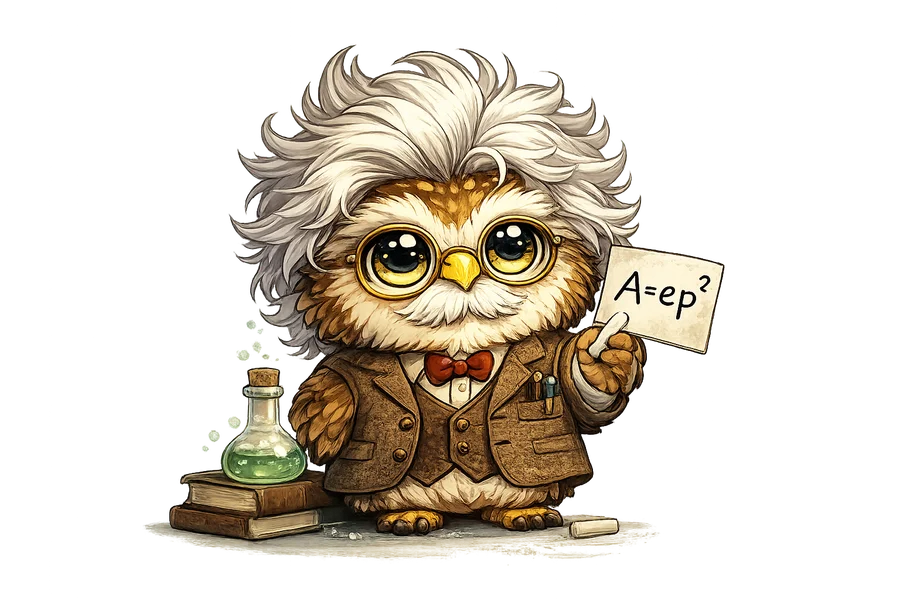
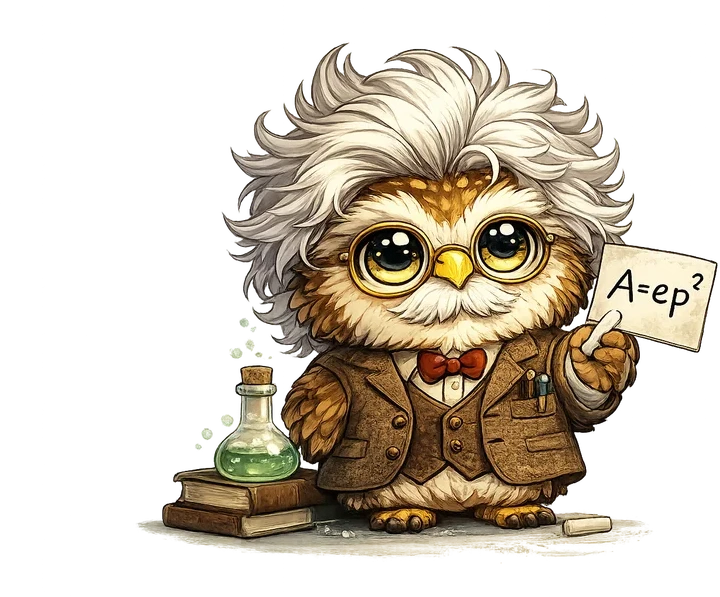
Fix owl lobby layout: crop image transparent edges + widen column
- Trimmed transparent padding from Wise_Owl.webp (900x600 → 720x597)
- Owl column widened from 35% to 42%, aligned right-bottom
- Removed centering padding so owl sits flush against content column

diff --git a/src/components/host/HostScreen.tsx b/src/components/host/HostScreen.tsx
@@ -355,16 +355,18 @@ export default function HostScreen() {
       {status === 'lobby' && (
         <div className="flex-1 flex items-stretch px-4 py-2 gap-4" style={{ minHeight: 0, height: 'calc(100vh - 64px)' }}>
           {/* LEFT column — Owl */}
-          <div className="hidden lg:flex items-center justify-center flex-shrink-0" style={{ width: '35%' }}>
+          <div className="hidden lg:flex items-end justify-end flex-shrink-0 overflow-hidden" style={{ width: '42%', padding: 0, margin: 0 }}>
             <img
               src="/Wise_Owl.webp"
               alt=""
               className="owl-float"
               loading="eager"
               style={{
-                height: '80vh',
+                height: '85vh',
+                maxHeight: '100%',
                 width: 'auto',
                 objectFit: 'contain',
+                objectPosition: 'right bottom',
                 filter: 'drop-shadow(0 0 40px rgba(255,200,50,0.45)) drop-shadow(0 0 80px rgba(172,34,40,0.35))',
               }}
             />
